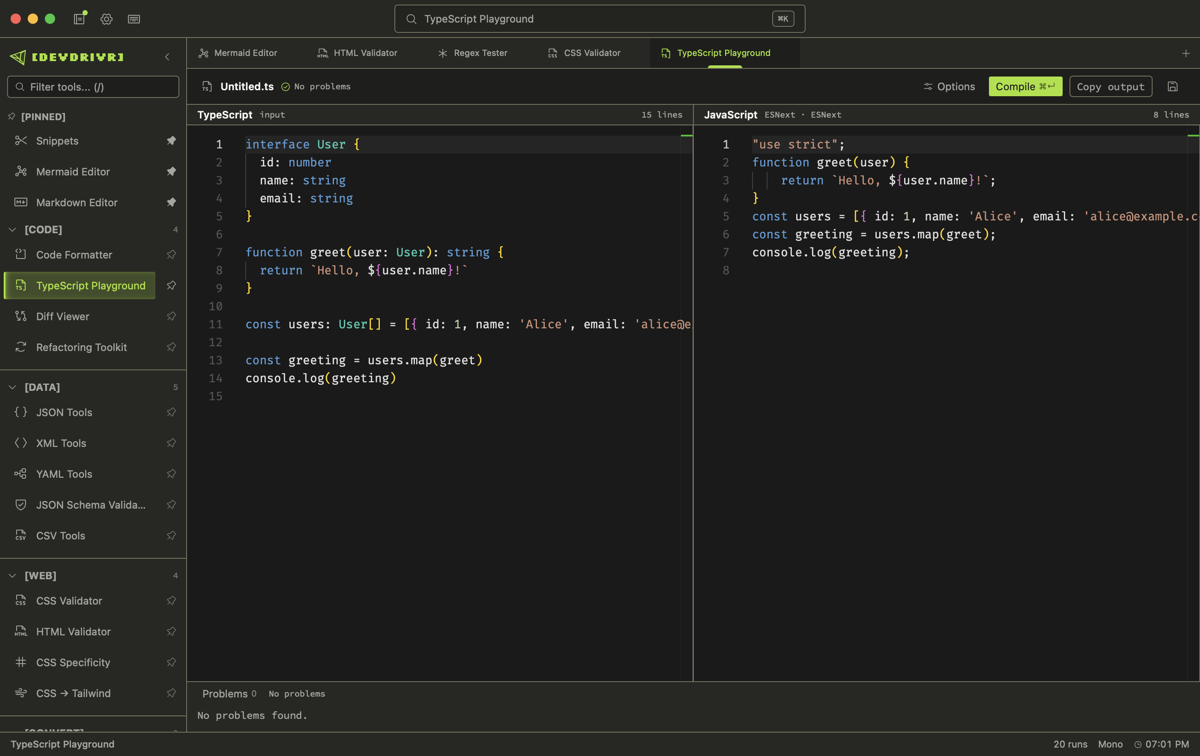
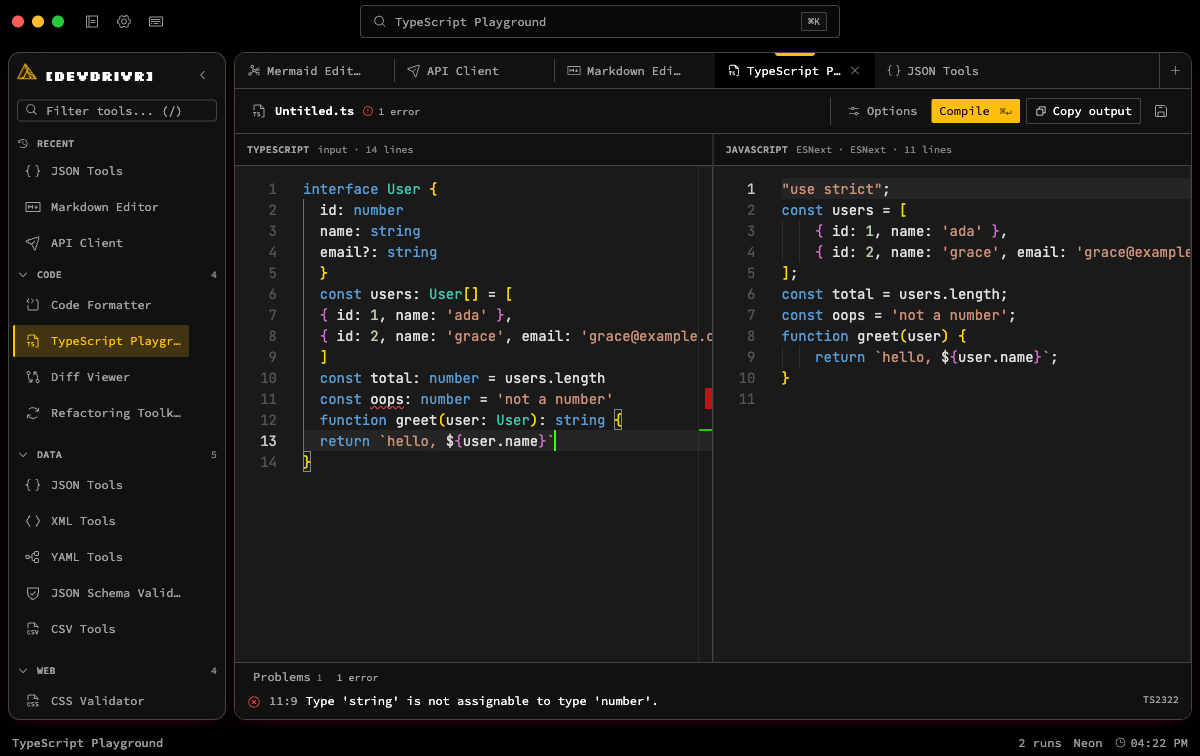
docs: refresh README screenshots [skip ci]
Recaptured all five README screenshots from the browser harness at
1200x756 on the neon-brutalist theme, so they show the current floating
shell layout instead of the pre-0.1.70 flush one.

Also repoints the cockpit README hero at screenshots/cockpit-overview.png
— it still referenced a dated screenshot file deleted in #95, so the image
had been rendering broken.

Changed region(s): [[0.0, 0.0, 1.0, 1.0], [0.5858, 0.5172, 0.6167, 0.5476], [0.555, 0.8823, 0.5858, 0.9127]]

diff --git a/apps/cockpit/README.md b/apps/cockpit/README.md
@@ -12,7 +12,7 @@
 
 <br>
 
-![devdrivr cockpit](../../screenshots/Screenshot%202026-04-06%20at%2023.00.12.png)
+![devdrivr cockpit showing the Mermaid Editor in split view](../../screenshots/cockpit-overview.png)
 
 </div>
 
